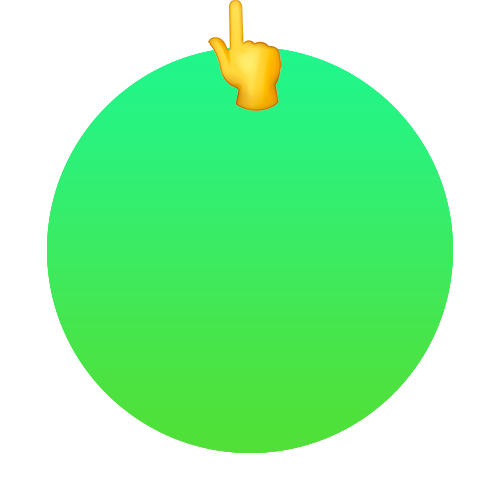
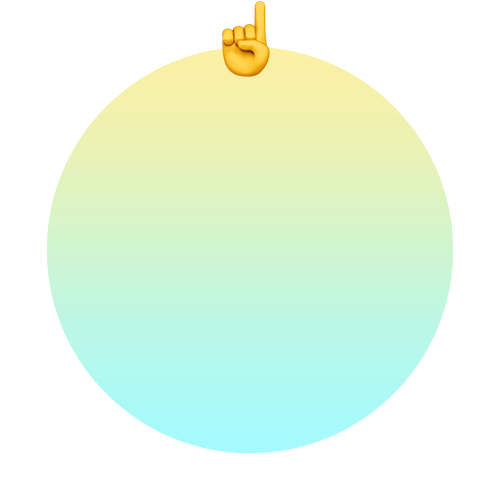
adapt wheel to new design

diff --git a/js/spin.js b/js/spin.js
@@ -2,7 +2,7 @@
 const randomExtraSpins = n => Math.random()*n*360;
 
 // initialize degrees
-const minSpinDegrees = 4 * 360; // 6 spins minimum!
+const minSpinDegrees = 5 * 360; // 6 spins minimum!
 let degreeSpinSum = minSpinDegrees + randomExtraSpins(3); // 3 extra spins max!
 
 // initialize DOM objects
@@ -19,12 +19,13 @@ button.addEventListener('click', (event) => {
   // calculate spinner degrees and spin! (transformation)
   degreeSpinSum += minSpinDegrees + randomExtraSpins(3);
   const selectedBezier = selectBezier();
+  console.log(selectedBezier);
   let buildStyle = `transform: rotate(${degreeSpinSum}deg); transition-timing-function: ${selectedBezier}`;
   spinner.setAttribute("style", buildStyle);
   // wait for spinner to end transition!
   $("#spinner-img").bind("transitionend webkitTransitionEnd oTransitionEnd MSTransitionEnd", () => {
     bullbar.innerHTML = `${startupify()}`;
-    bullbar.setAttribute("style", "border: 5px solid #8BFFC7; transition: ease 0.25s;");
+    bullbar.setAttribute("style", "border: 5px solid #ABF9F7; transition: ease 0.25s;");
     button.innerHTML = "Pitch";
   });
 });
@@ -38,10 +39,10 @@ button.addEventListener('click', (event) => {
  */
 function selectBezier() {
   let sampleArray = [
-    "cubic-bezier(0.6, 1.5, 0.6, 1)",
-    "cubic-bezier(.1, .9, .9, .1)",
-    "cubic-bezier(0.68, -0.55, 0.265, 1.55)",
-    "cubic-bezier(0.25, 0. 1, 0.25, 1)"
+    "cubic-bezier(0.6, 1.5, 0.6, 1)"
+    // "cubic-bezier(.1, .9, .9, .1)",
+    // "cubic-bezier(0.68, -0.55, 0.265, 1.55)",
+    // "cubic-bezier(0.25, 0. 1, 0.25, 1)"
   ];
   return sampleArray[Math.floor(Math.random() * sampleArray.length)];
 }

diff --git a/index.html b/index.html
@@ -40,7 +40,7 @@
     </div>
 
     <!-- SPIN SCRIPT -->
-    <script src="js/index.js"></script>
+    <script src="js/spin.js"></script>
     <script src="js/startupify.js"></script>
     <!-- Including jQuery -->
     <script src="https://code.jquery.com/jquery-3.3.1.slim.min.js"></script>
